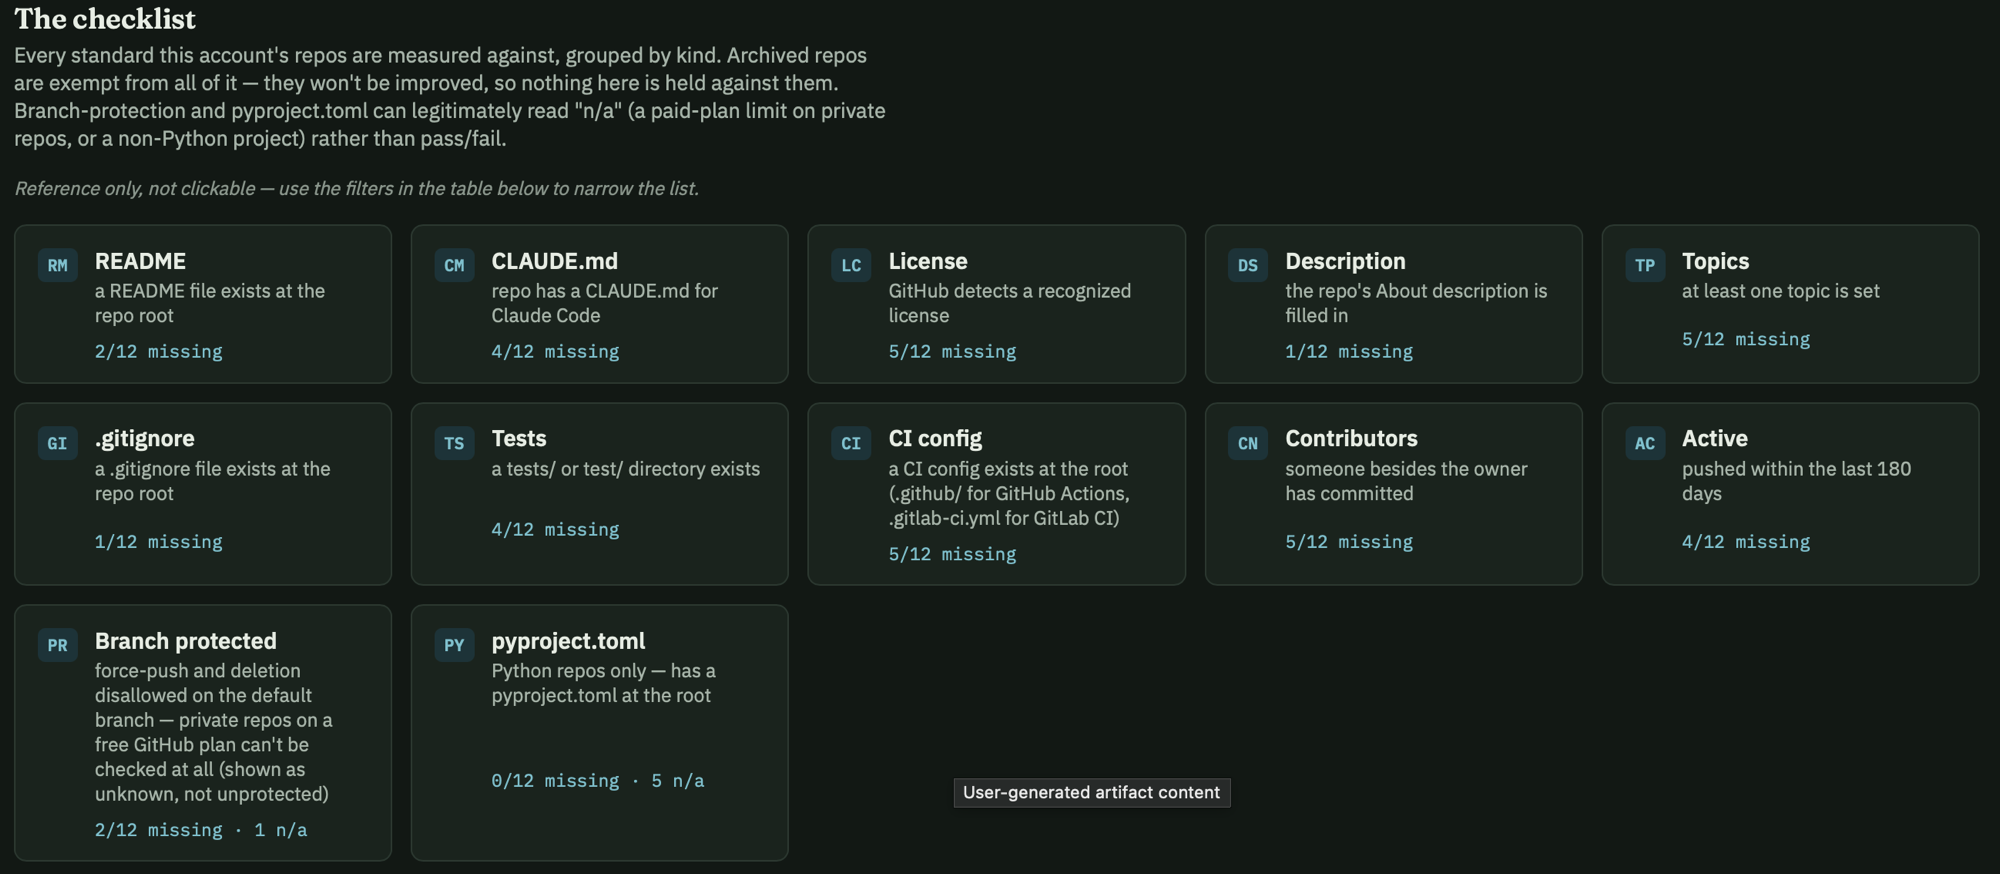
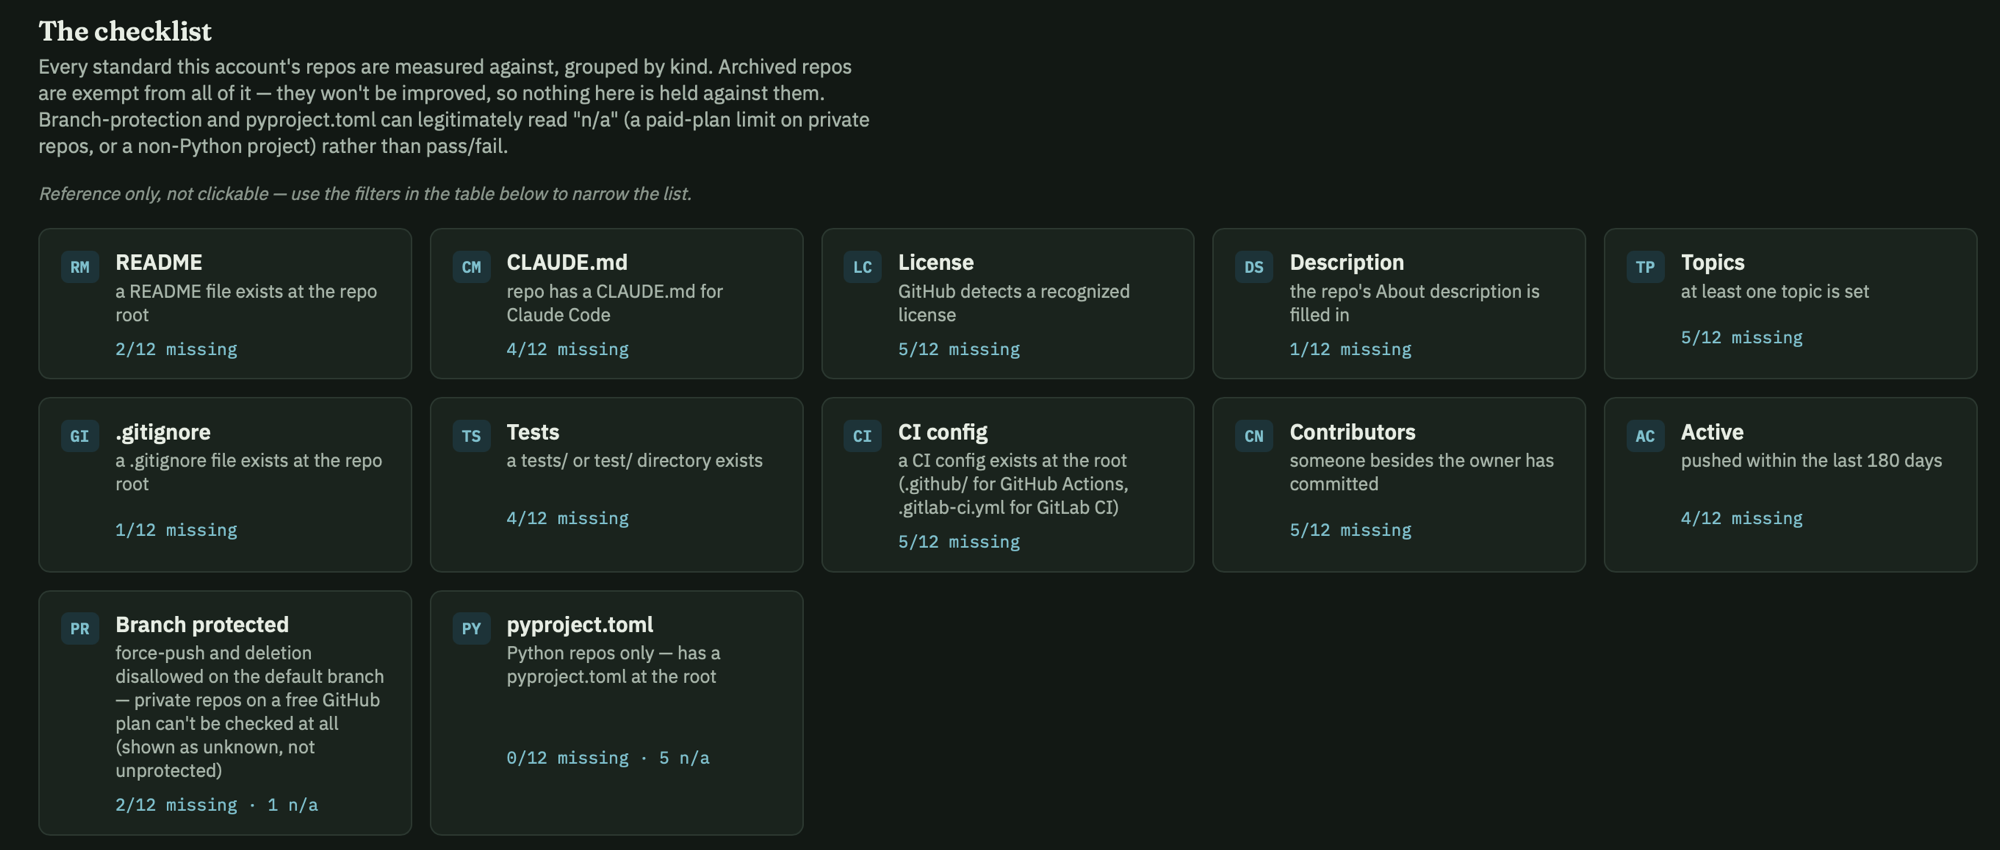
Refresh screenshots with correct branding; add clippings to README (#15)
The docs/images/*.png files were still the user's original screenshots
from before the github-admin -> repo-healthcheck rename (they said
"GITHUB-ADMIN" in the header) -- never regenerated after. Replaces them
with freshly captured, correctly-branded screenshots of the live
docs/demo.html page, trimmed to end cleanly (no partial rows/cards cut
off, no stray tooltip artifacts from the capture tool).

Also adds those same images to README.md as curated clippings -- the
scorecard under the intro, the interactive table after the --dashboard
description, and the checklist grid within "What it checks" -- using
absolute raw.githubusercontent.com URLs so they render correctly on both
GitHub and (later) PyPI, which doesn't resolve repo-relative paths.

Claude-Session: https://claude.ai/code/session_01GYRwmx4nGSThGj75zfrmHZ

diff --git a/README.md b/README.md
@@ -15,6 +15,8 @@ $ repo-healthcheck
 prints a table sorted worst-first (most issues on top), so problem repos
 never get buried below healthy ones.
 
+<img src="https://raw.githubusercontent.com/ubeast/repo-healthcheck/main/docs/images/masthead.png" alt="repo-healthcheck dashboard header showing 12 repos audited, 5 with at least one gap, 2.8 average gaps per repo, and License as the most common gap" width="820">
+
 Two HTML export options:
 
 - `--html report.html` -- a plain static table, every issue spelled out as text.
@@ -25,12 +27,16 @@ Two HTML export options:
   in click order). This is the one worth opening in a browser and actually
   using, not just reading.
 
+<img src="https://raw.githubusercontent.com/ubeast/repo-healthcheck/main/docs/images/table.png" alt="Interactive worst-first repo table with filter chips for each check and columns for branch protection, license type, contributors, forks, topics, and last push date" width="820">
+
 Repo names are shown without the owner prefix for whichever account most of
 the report's repos belong to (hover, or the terminal table's title, still
 shows the full name) -- a repo under any other owner keeps `owner/name` so
 it isn't confused with that account's repo of the same short name.
 
 ## What it checks
+
+<img src="https://raw.githubusercontent.com/ubeast/repo-healthcheck/main/docs/images/checklist.png" alt="The checklist: twelve checks grouped by kind -- README, CLAUDE.md, License, Description, Topics, .gitignore, Tests, CI config, Contributors, Active, Branch protected, and pyproject.toml -- each with its criterion and a live missing-count" width="820">
 
 | check | flagged when | why it matters |
 | --- | --- | --- |
